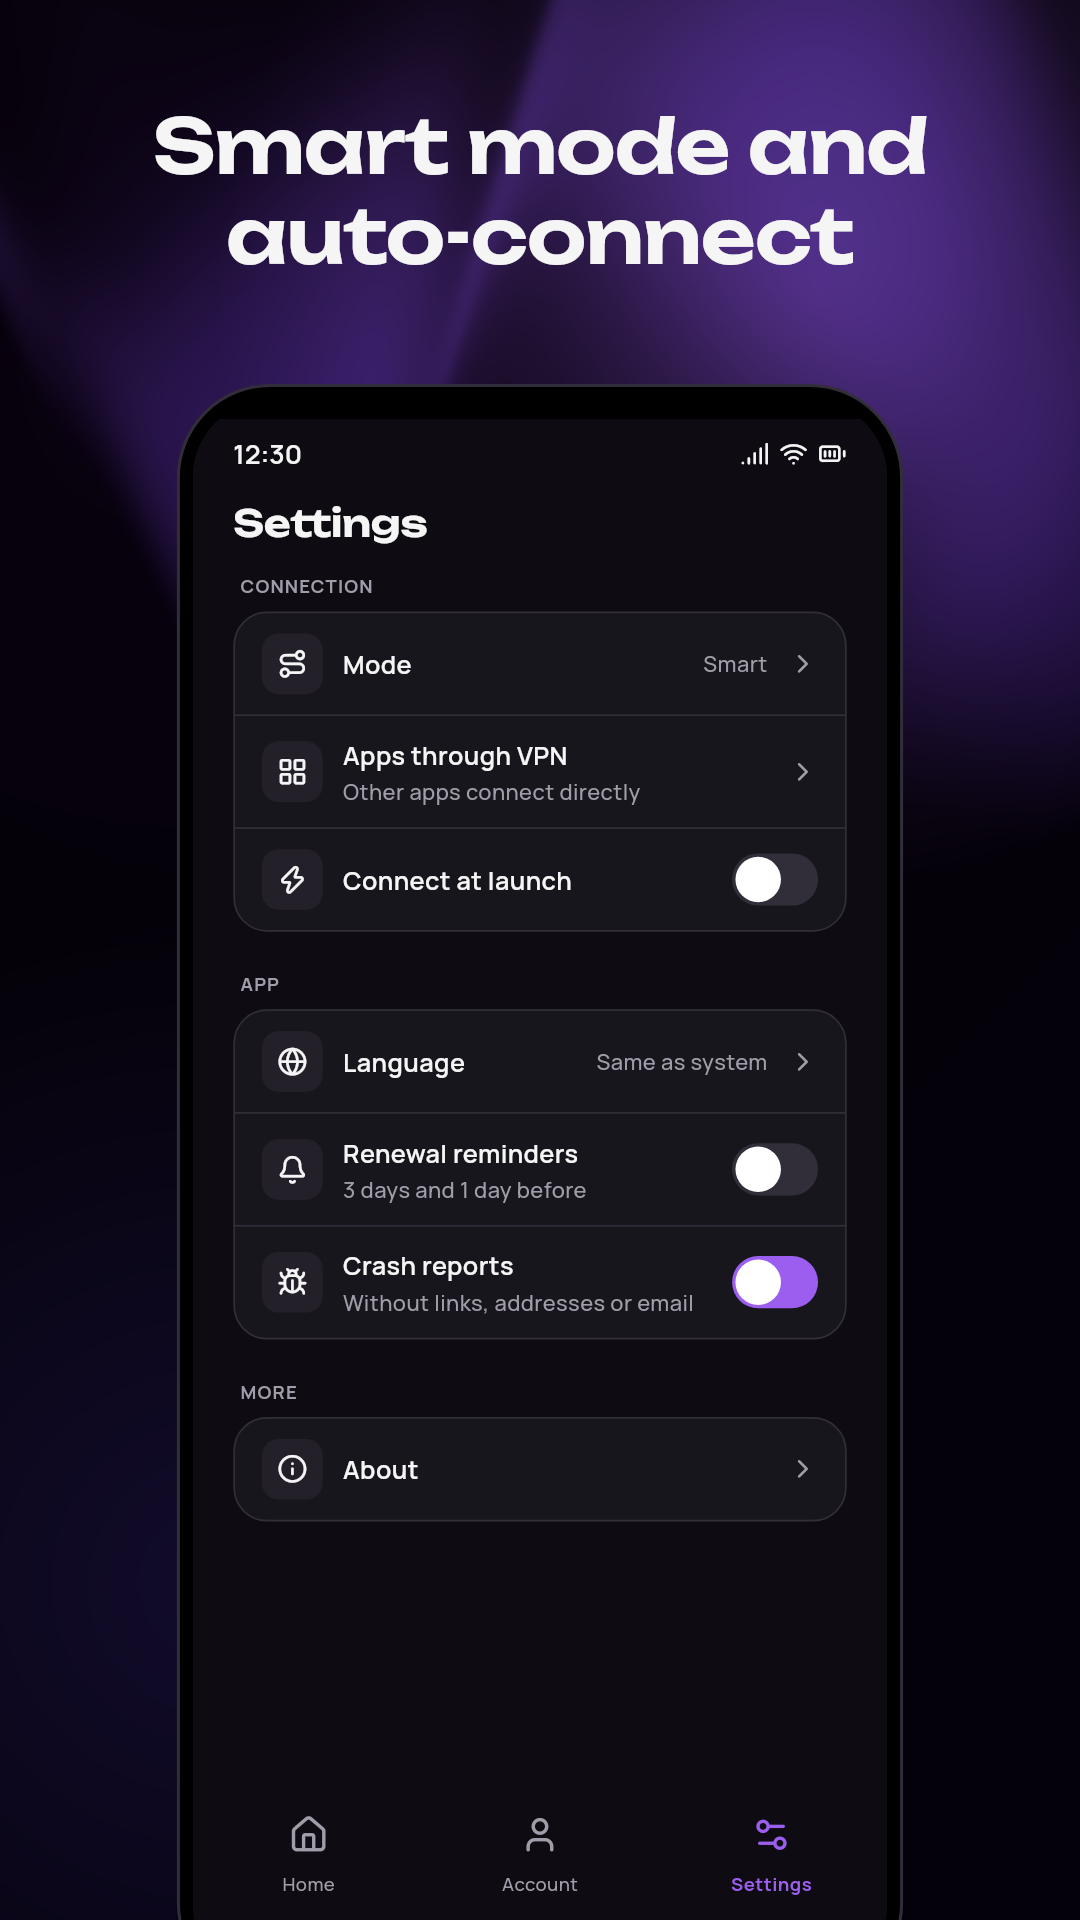
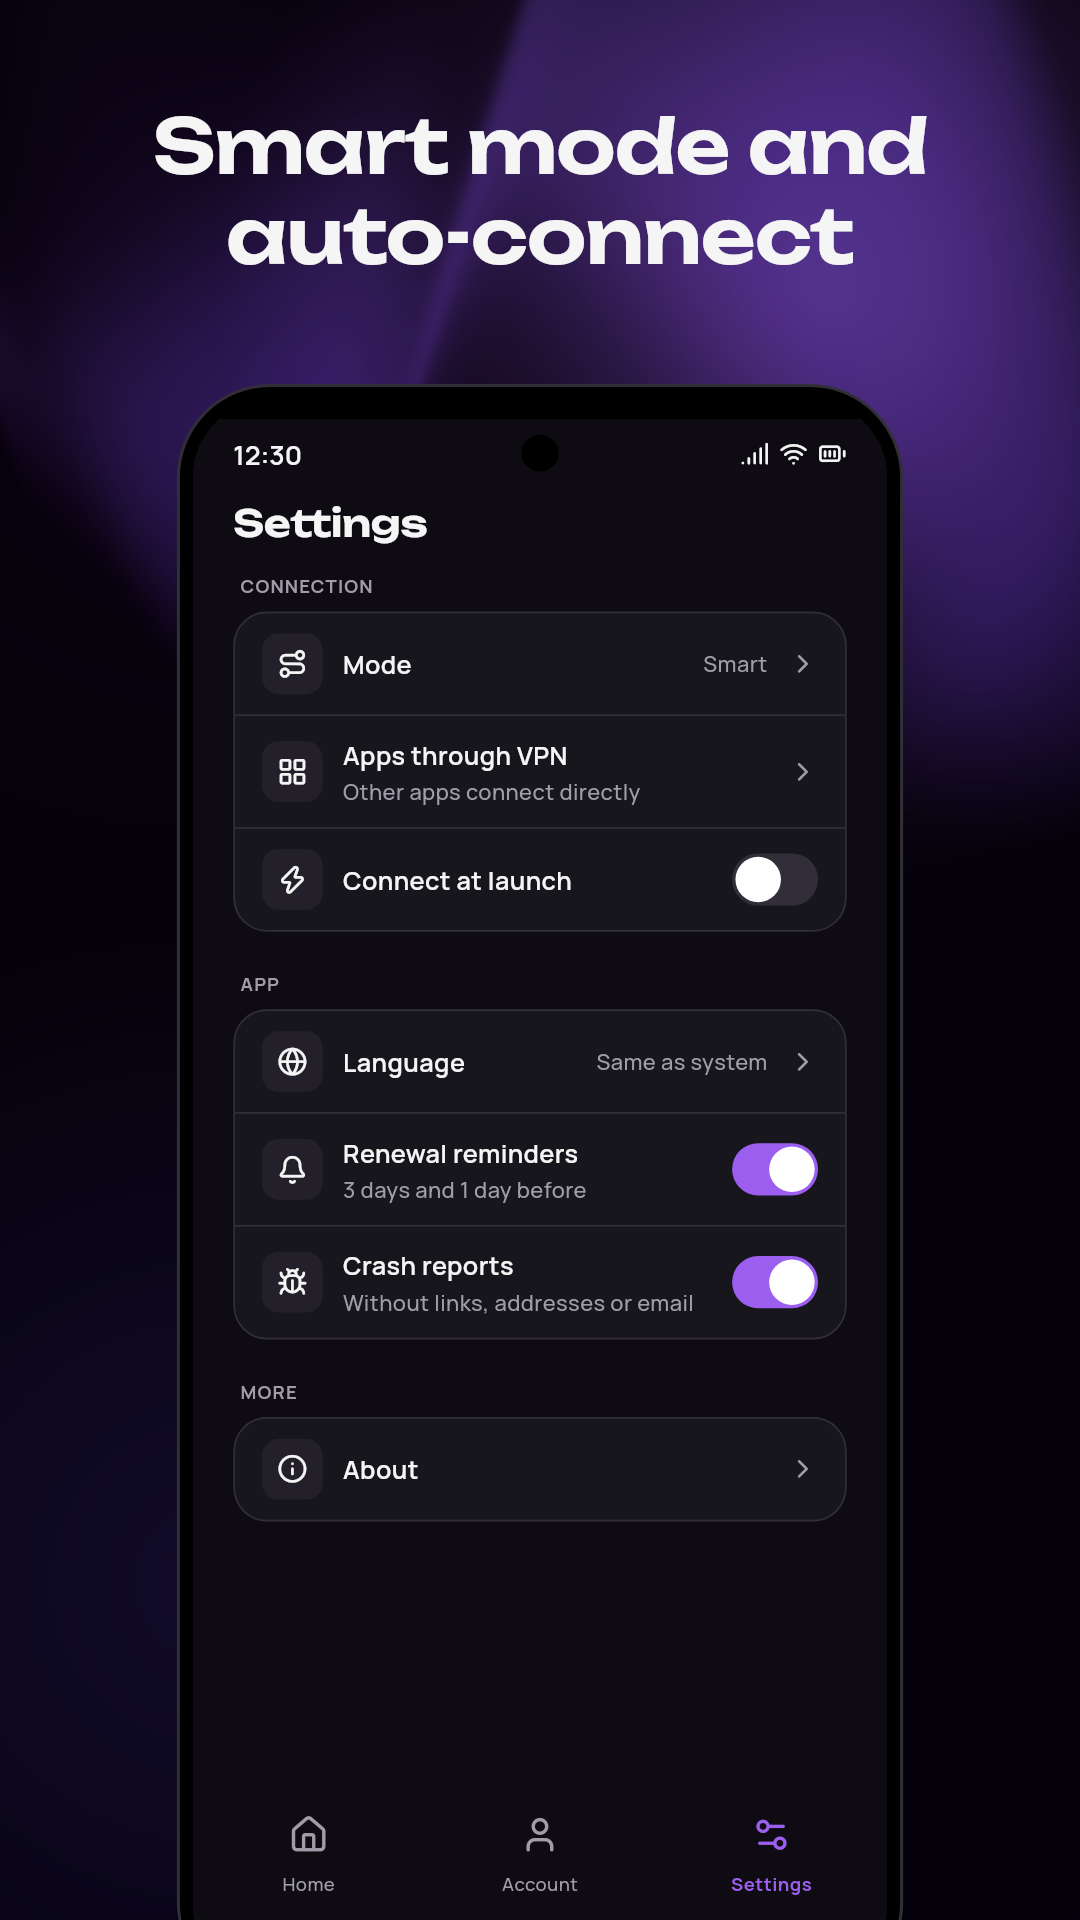
feat(store): the camera cutout on the mockups, settings as shipped
The iPhone gets its Dynamic Island and the Pixel its punch hole, with the
status bar centered on them. Settings show the reminders and launch connect
on, and the iOS description says Keep VPN on is for iPhone.

diff --git a/tool/store/scenes.dart b/tool/store/scenes.dart
@@ -22,13 +22,14 @@ import 'package:onexray/core/db/database/database.dart';
 import 'package:onexray/core/db/database/enum.dart';
 import 'package:onexray/core/pigeon/messages.g.dart';
 import 'package:onexray/core/pigeon/model.dart';
+import 'package:onexray/l10n/localizations/app_localizations.dart';
 import 'package:onexray/service/connect/compiler.dart';
 import 'package:onexray/service/connect/coordinator.dart';
 import 'package:onexray/service/connect/runtime.dart';
 import 'package:onexray/service/connect/runtime_host.dart';
-import 'package:onexray/service/connect/settings.dart';
 import 'package:onexray/service/servers/subscription/deep_link.dart';
 import 'package:onexray/service/servers/subscription/model.dart';
+import 'package:onexray/service/servers/subscription/renewal_reminders.dart';
 import 'package:onexray/service/shared/share/service.dart';
 // ignore: depend_on_referenced_packages
 import 'package:shared_preferences_platform_interface/in_memory_shared_preferences_async.dart';
@@ -36,6 +37,7 @@ import 'package:shared_preferences_platform_interface/in_memory_shared_preferenc
 import 'package:shared_preferences_platform_interface/shared_preferences_async_platform_interface.dart';
 
 import '../../test/support/fake_account_api.dart';
+import '../../test/support/fake_notifications.dart';
 import 'store.dart';
 
 /// What each screenshot shows, in the stores' order.
@@ -64,6 +66,9 @@ enum Shot {
     StoreLanguage.en => en,
   };
 }
+
+/// Never shown: the screens name no link.
+const _subscriptionUrl = 'https://sub.launch.tel/store';
 
 /// The panel's groups as a subscription delivers them, with their last ping.
 const _groups = {
@@ -113,7 +118,8 @@ class Scene {
     final db = AppDatabase.forTesting(NativeDatabase.memory());
     addTearDown(db.close);
     final groups = _groups[language]!;
-    final connected = shot != Shot.login;
+    // Signed in and connected, except on «Вход».
+    final signedIn = shot != Shot.login;
     final statusEvents = StreamController<VpnStatus>.broadcast(sync: true);
     addTearDown(statusEvents.close);
     final runtime = ConnectionRuntime.create(
@@ -130,7 +136,7 @@ class Scene {
           config: const {},
         ),
       ),
-      platform: _platform(device),
+      platform: device.platform.connection,
       request: StartVpnRequest(null, null, '18003', '{}'),
       startedAt: DateTime.now().subtract(
         const Duration(minutes: 24, seconds: 17),
@@ -144,9 +150,9 @@ class Scene {
         statusEvents: statusEvents.stream,
         observeStatus: () async {},
         disposeStatus: () {},
-        readRuntime: () async => connected ? runtime : null,
+        readRuntime: () async => signedIn ? runtime : null,
         inspect: (current, {observedStatus}) async => HostConnection(
-          connected ? VpnStatus.connected : VpnStatus.disconnected,
+          signedIn ? VpnStatus.connected : VpnStatus.disconnected,
           runtime: current,
         ),
         prepare: (_, _) async => runtime,
@@ -160,15 +166,13 @@ class Scene {
 
     final api = FakeAccountApi()
       ..loginWith(access: 'a1', refresh: 'r1')
-      ..subscription('https://sub.launch.tel/store', maxDevices: 5)
+      ..subscription(_subscriptionUrl, maxDevices: 5)
       ..me(email: 'anna@example.com', telegramLinked: true)
       ..devices([
         {
           'hwid': 'device-hwid',
-          'deviceModel': device.platform == StorePlatform.ios
-              ? 'iPhone 16 Pro'
-              : 'Pixel 9',
-          'platform': device.platform == StorePlatform.ios ? 'iOS' : 'Android',
+          'deviceModel': device.platform.model,
+          'platform': device.platform.system,
         },
         {
           'hwid': 'laptop',
@@ -178,7 +182,6 @@ class Scene {
         },
       ], max: 5);
     final account = accountServiceFor(api);
-    final signedIn = shot != Shot.login;
     if (signedIn) {
       await tester.runAsync(
         () => account.email.login(email: 'anna@example.com', password: 'pw'),
@@ -196,7 +199,7 @@ class Scene {
       pingLocations: (_, {isCancelled}) async {},
       dismissAnnounce: db.subscriptionDao.dismissAnnounce,
       refreshSubscription: refresh,
-      platform: _platform(device),
+      platform: device.platform.connection,
       installedApps: () async => const [],
       deviceLimit: deviceLimit,
       widgetContext: ({location, preset, expiresAt}) async {},
@@ -217,7 +220,13 @@ class Scene {
       controller: home,
       home: HomePage(controller: home, account: accountController),
       accountTab: AccountPage(controller: accountController, account: account),
-      settings: BrandSettingsPage(controller: home),
+      settings: BrandSettingsPage(
+        controller: home,
+        reminders: RenewalReminders(
+          database: db,
+          notifications: FakeNotifications(),
+        ),
+      ),
       account: account,
       shareService: share,
       watchSubscription: () => Stream.value(signedIn),
@@ -227,17 +236,11 @@ class Scene {
     return Scene._(BrandApp(routerConfig: router), router, shot, home);
   }
 
-  static ConnectionPlatform _platform(StoreDevice device) =>
-      switch (device.platform) {
-        StorePlatform.ios => ConnectionPlatform.ios,
-        StorePlatform.android => ConnectionPlatform.android,
-      };
-
   static Future<void> _seed(AppDatabase db, List<(String, int)> groups) async {
     await db.subscriptionDao.insertRow(
       SubscriptionCompanion.insert(
         name: 'LaunchVPN',
-        url: 'https://sub.launch.tel/store',
+        url: _subscriptionUrl,
         timestamp: DateTime(2026),
         mode: Value(SubscriptionMode.providerManaged.name),
         expireTimestamp: Value(
@@ -292,14 +295,19 @@ class Scene {
         _router.go(BrandRoutes.account);
       case Shot.settings:
         _router.go(BrandRoutes.settings);
+        await idle();
+        final page = tester.element(find.byType(BrandSettingsPage));
+        await tester.tap(
+          find.text(AppLocalizations.of(page)!.settingsConnectOnLaunch),
+        );
       case Shot.login:
-        await _signUp(tester);
+        await _fillLogin(tester);
     }
     await idle();
   }
 
   /// Fills «Вход», so its button shows ready.
-  static Future<void> _signUp(WidgetTester tester) async {
+  static Future<void> _fillLogin(WidgetTester tester) async {
     final fields = find.descendant(
       of: find.byType(BrandTextField),
       matching: find.byType(EditableText),

diff --git a/tool/store/store.dart b/tool/store/store.dart
@@ -1,14 +1,36 @@
 import 'package:material_ui/material_ui.dart';
 import 'package:onexray/brand/shader_backdrop.dart';
 import 'package:onexray/brand/theme.dart';
+import 'package:onexray/core/brand.dart';
+import 'package:onexray/service/connect/settings.dart';
 import 'package:shadcn_ui/shadcn_ui.dart';
 
 enum StorePlatform {
-  ios(TargetPlatform.iOS),
-  android(TargetPlatform.android);
+  ios(
+    target: TargetPlatform.iOS,
+    connection: ConnectionPlatform.ios,
+    model: 'iPhone 16 Pro',
+    system: 'iOS',
+  ),
+  android(
+    target: TargetPlatform.android,
+    connection: ConnectionPlatform.android,
+    model: 'Pixel 9',
+    system: 'Android',
+  );
 
-  const StorePlatform(this.target);
+  const StorePlatform({
+    required this.target,
+    required this.connection,
+    required this.model,
+    required this.system,
+  });
   final TargetPlatform target;
+  final ConnectionPlatform connection;
+
+  /// This device on «Аккаунт».
+  final String model;
+  final String system;
 }
 
 /// A store listing language: App Store Connect's folder and Google Play's.
@@ -189,7 +211,9 @@ class StoreFrame extends StatelessWidget {
   }
 }
 
-/// The time and the signal, Wi-Fi and battery icons.
+/// The time and the signal, Wi-Fi and battery icons, beside the camera: the
+/// iPhone's Dynamic Island or the Pixel's punch hole. The iPad's camera sits in
+/// the bezel.
 class _StatusBar extends StatelessWidget {
   const _StatusBar(this.device);
 
@@ -197,32 +221,55 @@ class _StatusBar extends StatelessWidget {
 
   @override
   Widget build(BuildContext context) {
-    final top = device.insets.top;
     final ios = device.platform == StorePlatform.ios;
+    // The camera's box; the bar's items center on it.
+    final camera = switch (device) {
+      StoreDevice.iphone => const Rect.fromLTWH(0, 11, 126, 37),
+      StoreDevice.android => const Rect.fromLTWH(0, 9, 22, 22),
+      StoreDevice.ipad => null,
+    };
+    final band = camera ?? Rect.fromLTWH(0, 0, 0, device.insets.top);
     return Positioned(
-      left: ios ? 40 : 24,
-      right: ios ? 36 : 24,
-      top: 0,
-      height: device == StoreDevice.iphone ? top - 8 : top,
-      child: Row(
+      left: 0,
+      right: 0,
+      top: band.top,
+      height: band.height,
+      child: Stack(
+        alignment: Alignment.center,
         children: [
-          Text(
-            ios ? '9:41' : '12:30',
-            style: BrandText.cardTitle.copyWith(
-              fontWeight: FontWeight.w600,
-              fontSize: 16,
+          if (camera != null)
+            Container(
+              width: camera.width,
+              height: camera.height,
+              decoration: BoxDecoration(
+                color: Colors.black,
+                borderRadius: BorderRadius.circular(camera.height / 2),
+              ),
+            ),
+          Padding(
+            padding: EdgeInsets.symmetric(horizontal: ios ? 36 : 24),
+            child: Row(
+              children: [
+                Text(
+                  ios ? '9:41' : '12:30',
+                  style: BrandText.cardTitle.copyWith(
+                    fontWeight: FontWeight.w600,
+                    fontSize: 16,
+                  ),
+                ),
+                const Spacer(),
+                for (final icon in [
+                  LucideIcons.signal,
+                  LucideIcons.wifi,
+                  LucideIcons.batteryFull,
+                ])
+                  Padding(
+                    padding: const EdgeInsets.only(left: 6),
+                    child: Icon(icon, size: 17, color: BrandColors.ink),
+                  ),
+              ],
             ),
           ),
-          const Spacer(),
-          for (final icon in [
-            LucideIcons.signal,
-            LucideIcons.wifi,
-            LucideIcons.batteryFull,
-          ])
-            Padding(
-              padding: const EdgeInsets.only(left: 6),
-              child: Icon(icon, size: 17, color: BrandColors.ink),
-            ),
         ],
       ),
     );
@@ -284,7 +331,7 @@ class StoreBanner extends StatelessWidget {
             ),
             const SizedBox(width: 40),
             Text(
-              'launchvpn',
+              Brand.wordmark,
               style: BrandText.wordmark.copyWith(
                 fontSize: 72,
                 letterSpacing: -1.44,
